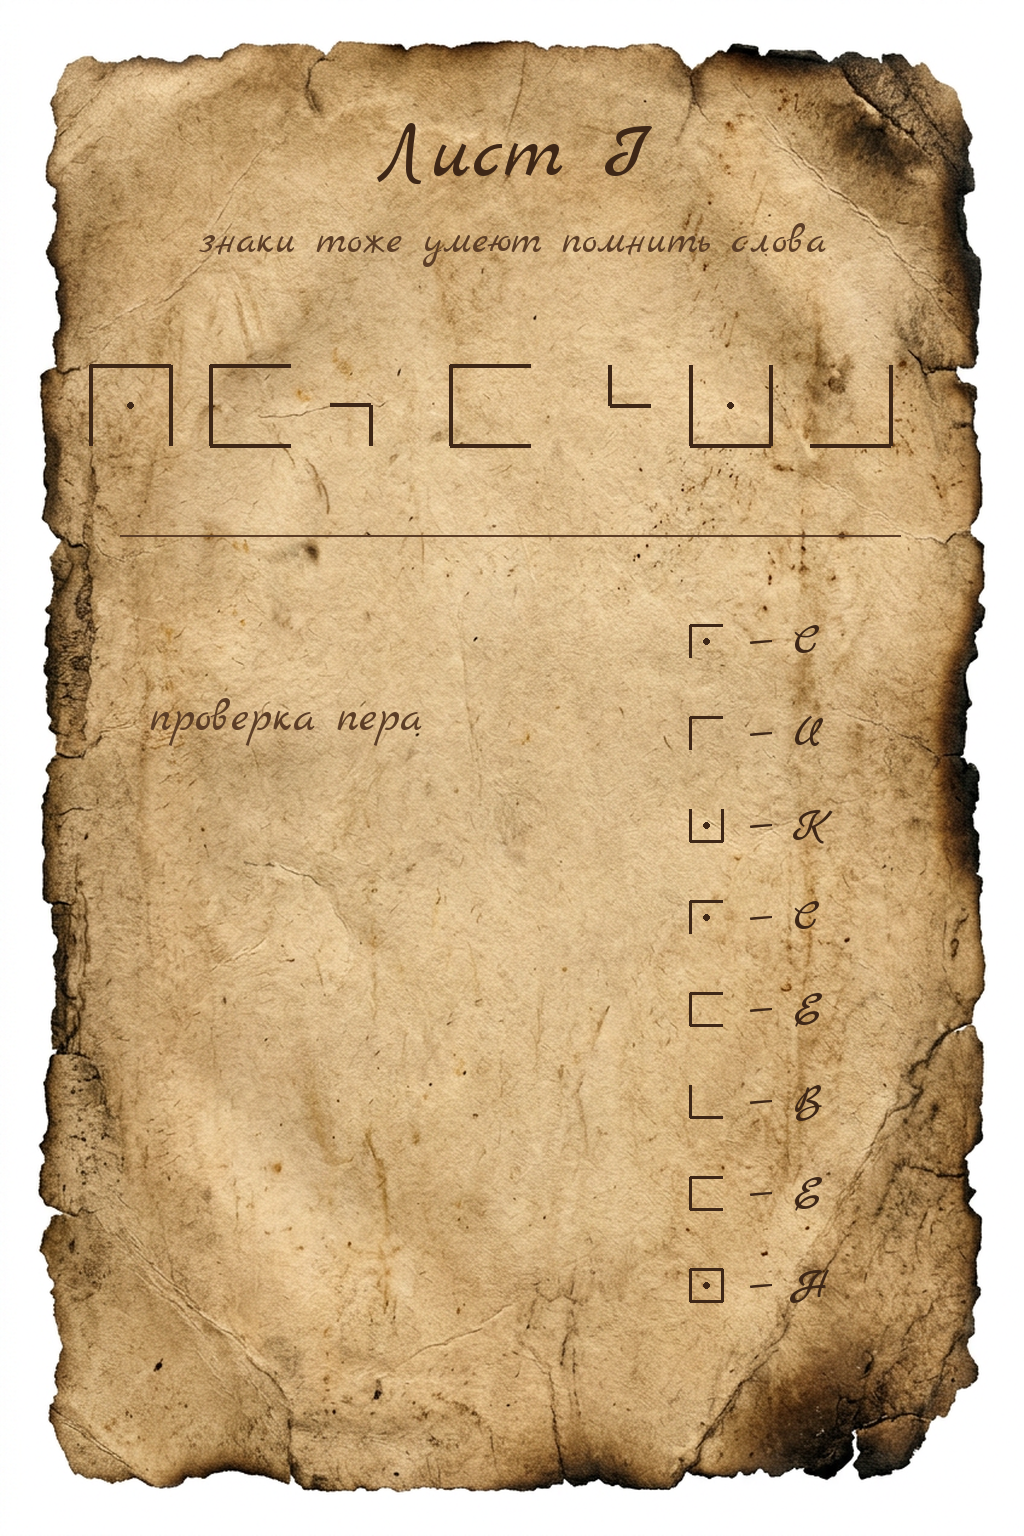
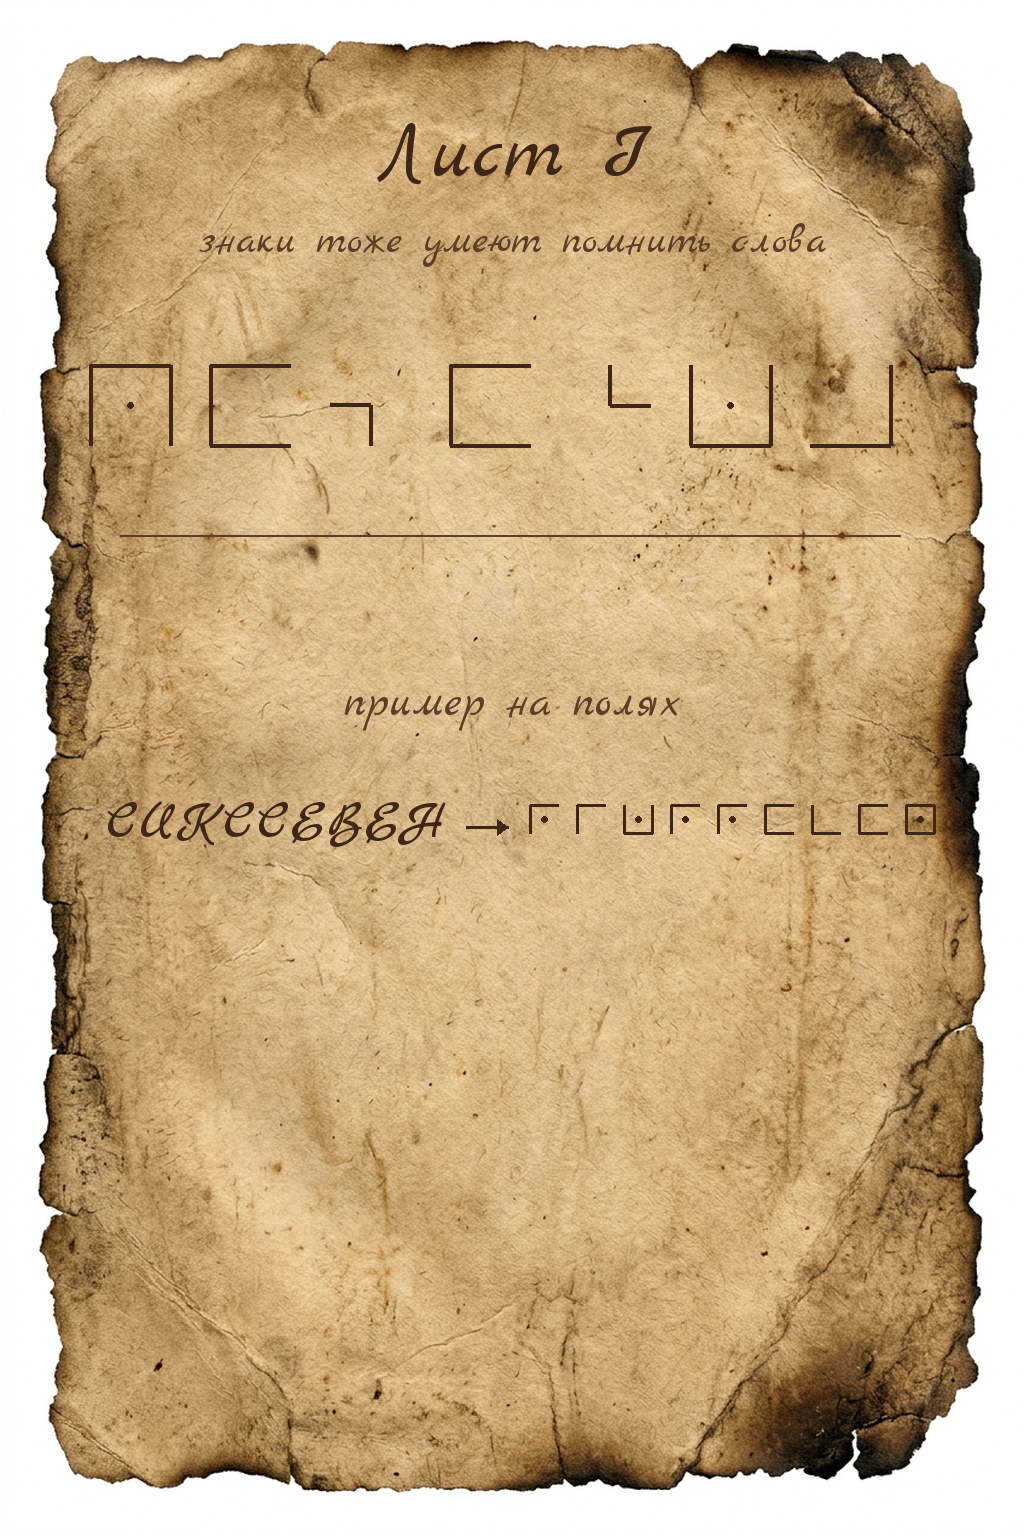
Show the N3 crib as a word and cipher pair

diff --git a/bot/tools/make_quest_assets.py b/bot/tools/make_quest_assets.py
@@ -511,7 +511,7 @@ def make_n2():
 def make_n3():
     """Четыре реалистичных листа: pigpen → rail → Vigenere → book cipher."""
     word1 = "РЕШЕТКА"
-    crib = "СИКСЕВЕН"
+    crib = "СИКССЕВЕН"
     rail_plain = "ВИЖНЕР"
     rail_c = rail_fence_enc(rail_plain, 3)
     vig_plain = "СТРОФА"
@@ -535,7 +535,7 @@ def make_n3():
     faded_ink = (92, 62, 39)
     accent = (112, 43, 31)
 
-    # Лист I: основное слово и вертикальная известная пара СИКСЕВЕН на полях.
+    # Лист I: рядом с известным словом СИКССЕВЕН показана его шифрованная запись.
     page1 = parchment_page()
     draw = ImageDraw.Draw(page1)
     centered_text(draw, "Лист I", 105, script_font(82), ink)
@@ -543,11 +543,20 @@ def make_n3():
     for index, letter in enumerate(word1):
         draw_pigpen(draw, (90 + index * 120, 365), letter, scale=40, color=ink, width=4)
     draw.line((120, 535, 900, 535), fill=faded_ink, width=2)
-    draw.text((150, 690), "проверка пера", fill=faded_ink, font=script_font(46))
+    centered_text(draw, "пример на полях", 675, script_font(46), faded_ink)
+    label_font = script_font(54)
+    label_x, label_y = 105, 790
+    draw.text((label_x, label_y), crib, fill=ink, font=label_font)
+    label_box = draw.textbbox((label_x, label_y), crib, font=label_font)
+    arrow_x = label_box[2] + 18
+    draw.line((arrow_x, 827, arrow_x + 42, 827), fill=ink, width=3)
+    draw.polygon(
+        [(arrow_x + 42, 827), (arrow_x + 31, 819), (arrow_x + 31, 835)],
+        fill=ink,
+    )
+    cipher_x = arrow_x + 64
     for index, letter in enumerate(crib):
-        y = 625 + index * 92
-        draw_pigpen(draw, (690, y), letter, scale=16, color=ink, width=3)
-        draw.text((750, y - 11), f"— {letter}", fill=ink, font=script_font(44))
+        draw_pigpen(draw, (cipher_x + index * 47, 805), letter, scale=14, color=ink, width=3)
     page1.save(OUT / "artifact_3a.png", optimize=True)
 
     # Лист II: никаких названий метода — только след из трёх линий.

diff --git a/bot/test_n3_cards.py b/bot/test_n3_cards.py
@@ -20,7 +20,8 @@ class N3CardStyleTests(unittest.TestCase):
     def test_generator_uses_script_font_without_glitches(self):
         source = (REPO_ROOT / "bot" / "tools" / "make_quest_assets.py").read_text(encoding="utf-8")
         n3 = source.split("def make_n3():", 1)[1].split("# ===================================================================== N4", 1)[0]
-        self.assertIn('crib = "СИКСЕВЕН"', n3)
+        self.assertIn('crib = "СИКССЕВЕН"', n3)
+        self.assertIn("рядом с известным словом", n3)
         self.assertIn("parchment_page()", n3)
         self.assertIn("script_font(", n3)
         self.assertNotIn("hack_glitch", n3)

diff --git a/bot/docs/QUEST_WALKTHROUGH.md b/bot/docs/QUEST_WALKTHROUGH.md
@@ -112,9 +112,9 @@ LSB и цветовые каналы **нет** (это уже вход из SIG
 
 ### Ответ 1 → `РЕШЕТКА`
 
-Лист I, масонский / pigpen. Семь знаков. На правом поле вертикально записан
-известный пример: те же знаки рядом с расшифровкой **СИКСЕВЕН**. По расположению
-этих букв восстанавливается порядок клеток и читается основное слово.
+Лист I, масонский / pigpen. Семь основных знаков. Ниже рядом стоят известное
+слово **СИКССЕВЕН** и его шифрованная запись. По этой паре восстанавливается
+порядок клеток и читается основное слово.
 В бота: **РЕШЕТКА**
 
 ### Ответ 2 → `ВИЖНЕР`
